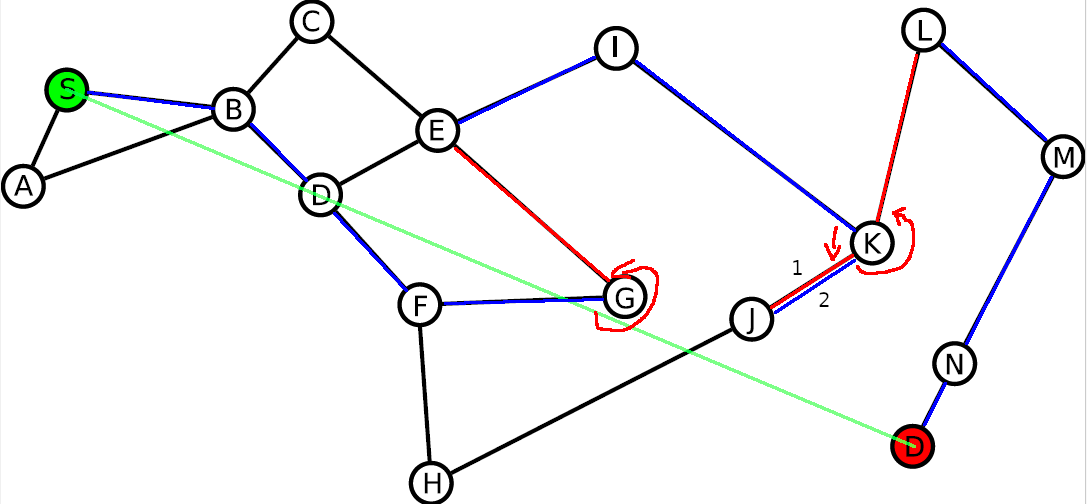
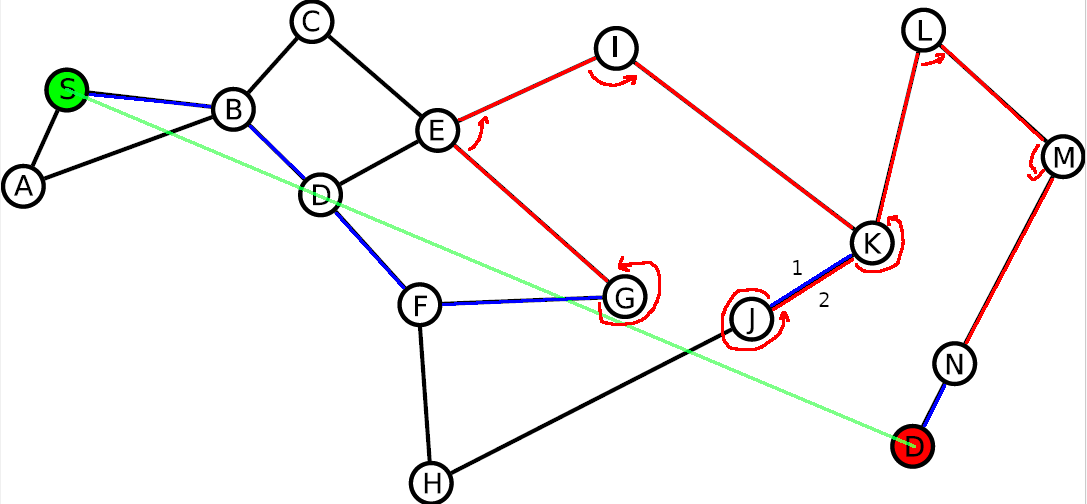
Fix series 8.

diff --git a/exercises/08/series.tex b/exercises/08/series.tex
@@ -151,20 +151,20 @@ happened \textbf{g}reedily (getting closer to the destination) or via
 \textbf{p}ermieter routing (moving away from the destination node due to an
 obstacle).
 
-Assume that the distance KD is shorter than JD. In the exercise they are equal
+Assume that the distance JD is shorter than KD. In the exercise they are equal
 to within a few pixels.
 
 \[
 		S \xrightarrow{g} B \xrightarrow{g} D \xrightarrow{g} F \xrightarrow{g}
-		G \xrightarrow{p} E \xrightarrow{g} I \xrightarrow{g} K \xrightarrow{p}
-		J \xrightarrow{g} K \xrightarrow{p} L \xrightarrow{g} M \xrightarrow{g}
+		G \xrightarrow{p} E \xrightarrow{p} I \xrightarrow{p} K \xrightarrow{g}
+		J \xrightarrow{p} K \xrightarrow{p} L \xrightarrow{p} M \xrightarrow{p}
 		N \xrightarrow{g} D
 \]
 
-The path is also crudely visualized in figure \ref{fig:gpsr_routing}. Blue paths are
-greedy, red are perimeter (with the counter-clockwise search direction). The
-green line is the source-destination intersect which perimeter hops may not
-cross.
+The path is also crudely visualized in figure \ref{fig:gpsr_routing}. Blue hops
+are greedy, red are perimeter (with the counter-clockwise search direction
+indicated).  The green line is the source-destination intersect which perimeter
+hops may not cross.
 
 \begin{figure}[h]
         \centering
